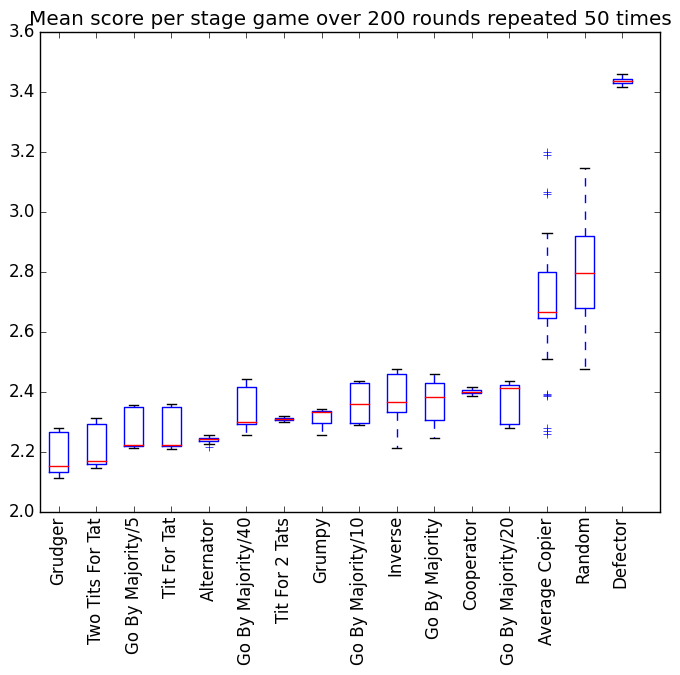
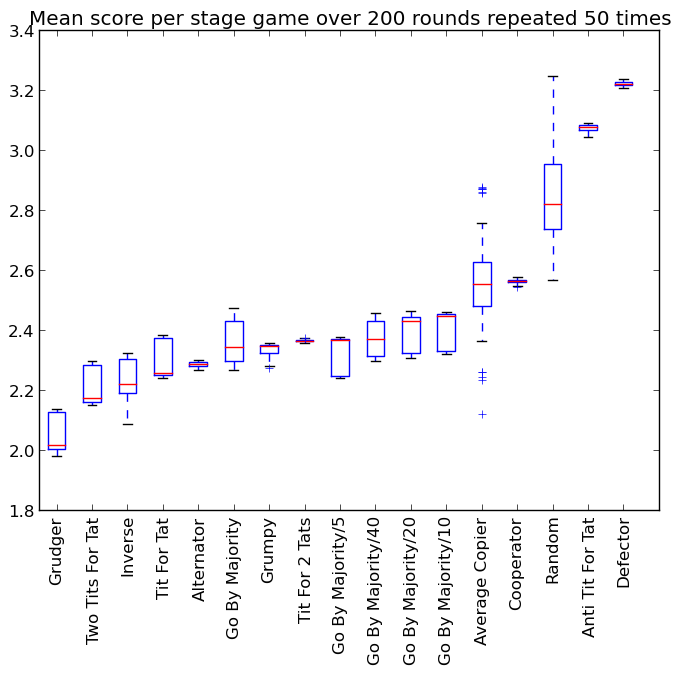
Add Anti Tit For Tat

diff --git a/axelrod/tests/test_titfortat.py b/axelrod/tests/test_titfortat.py
@@ -87,3 +87,32 @@ class TestTwoTitsForTat(unittest.TestCase):
     def test_representation(self):
         P1 = axelrod.TwoTitsForTat()
         self.assertEqual(str(P1), 'Two Tits For Tat')
+
+class TestAntiTitForTat(unittest.TestCase):
+
+    def test_initial_strategy(self):
+        """Starts by defecting"""
+        P1 = axelrod.AntiTitForTat()
+        P2 = axelrod.Player()
+        self.assertEqual(P1.strategy(P2), 'D')
+
+    def test_affect_of_strategy(self):
+        """Will do opposite of what opponent does."""
+        P1 = axelrod.AntiTitForTat()
+        P2 = axelrod.Player()
+        P1.history = ['D']
+        P2.history = ['C']
+        self.assertEqual(P1.strategy(P2), 'D')
+        P1.history.append('D')
+        P2.history.append('D')
+        self.assertEqual(P1.strategy(P2), 'C')
+        P1.history.append('C')
+        P2.history.append('D')
+        self.assertEqual(P1.strategy(P2), 'C')
+        P1.history.append('C')
+        P2.history.append('C')
+        self.assertEqual(P1.strategy(P2), 'D')
+
+    def test_representation(self):
+        P1 = axelrod.AntiTitForTat()
+        self.assertEqual(str(P1), "Anti Tit For Tat")

diff --git a/axelrod/strategies/titfortat.py b/axelrod/strategies/titfortat.py
@@ -26,7 +26,7 @@ class TitFor2Tats(Player):
     """
     def strategy(self, opponent):
         """
-        Being by playing 'C':
+        Begins by playing 'C':
         Will defect whenever anopponent has defected twice
         """
         if opponent.history[-2:] == ['D', 'D']:
@@ -43,7 +43,7 @@ class TwoTitsForTat(Player):
     """
     def strategy(self, opponent):
         """
-        Being by playing 'C':
+        Begins by playing 'C':
         Will defect twice after each defection by opponent
         """
         if 'D' in opponent.history[-2:]:
@@ -53,3 +53,14 @@ class TwoTitsForTat(Player):
     def __repr__(self):
         """The string method for the strategy."""
         return "Two Tits For Tat"
+
+class AntiTitForTat(Player):
+    """
+    Starts by defecting and then does the opposite of opponent's previous move.
+    This the opposite of TIT FOR TAT, also sometimes called BULLY.
+    """
+    def strategy(self, opponent):
+        """Begins with D, then does opposite of what opponent does."""
+        return 'C' if opponent.history[-1:] == ['D'] else 'D'
+    def __repr__(self):
+        return "Anti Tit For Tat"

diff --git a/axelrod/strategies/__init__.py b/axelrod/strategies/__init__.py
@@ -14,6 +14,7 @@ from inverse import *
 strategies = [
         Defector,
         Cooperator,
+        AntiTitForTat,
         TitForTat,
         TitFor2Tats,
         TwoTitsForTat,
